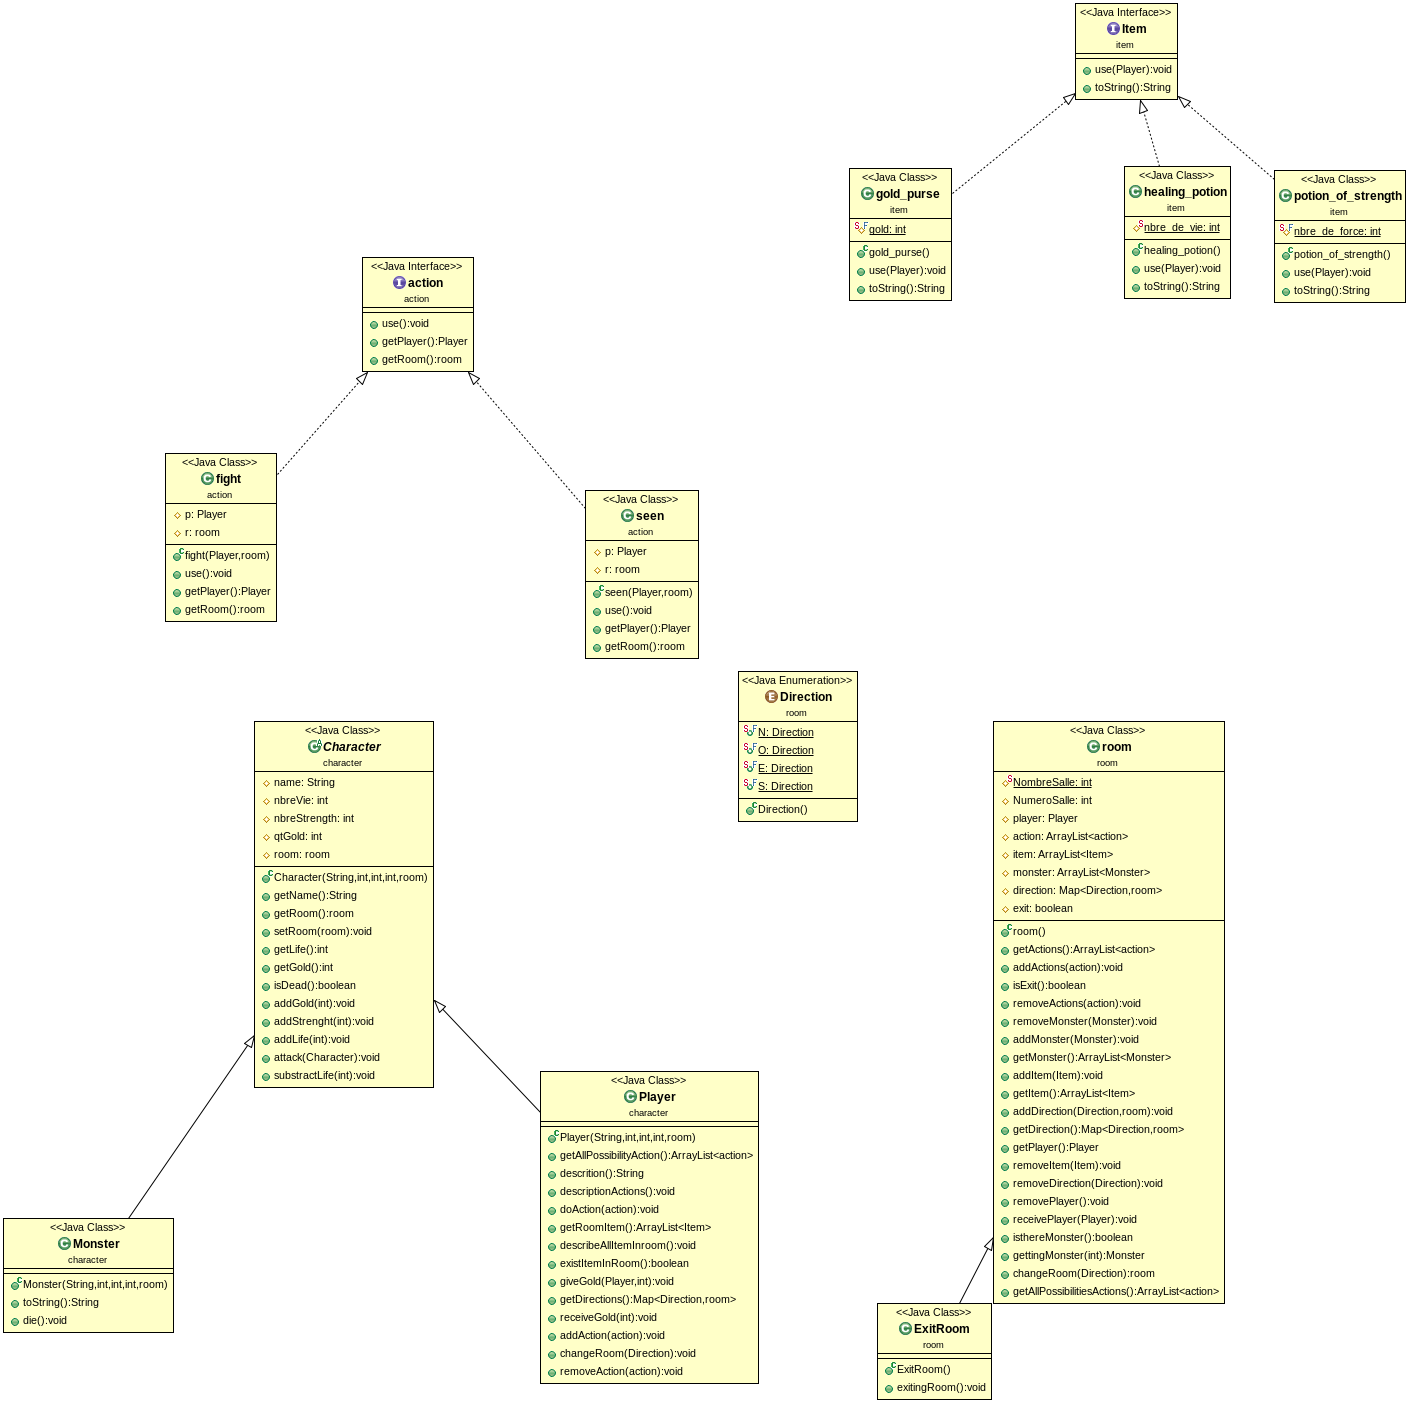
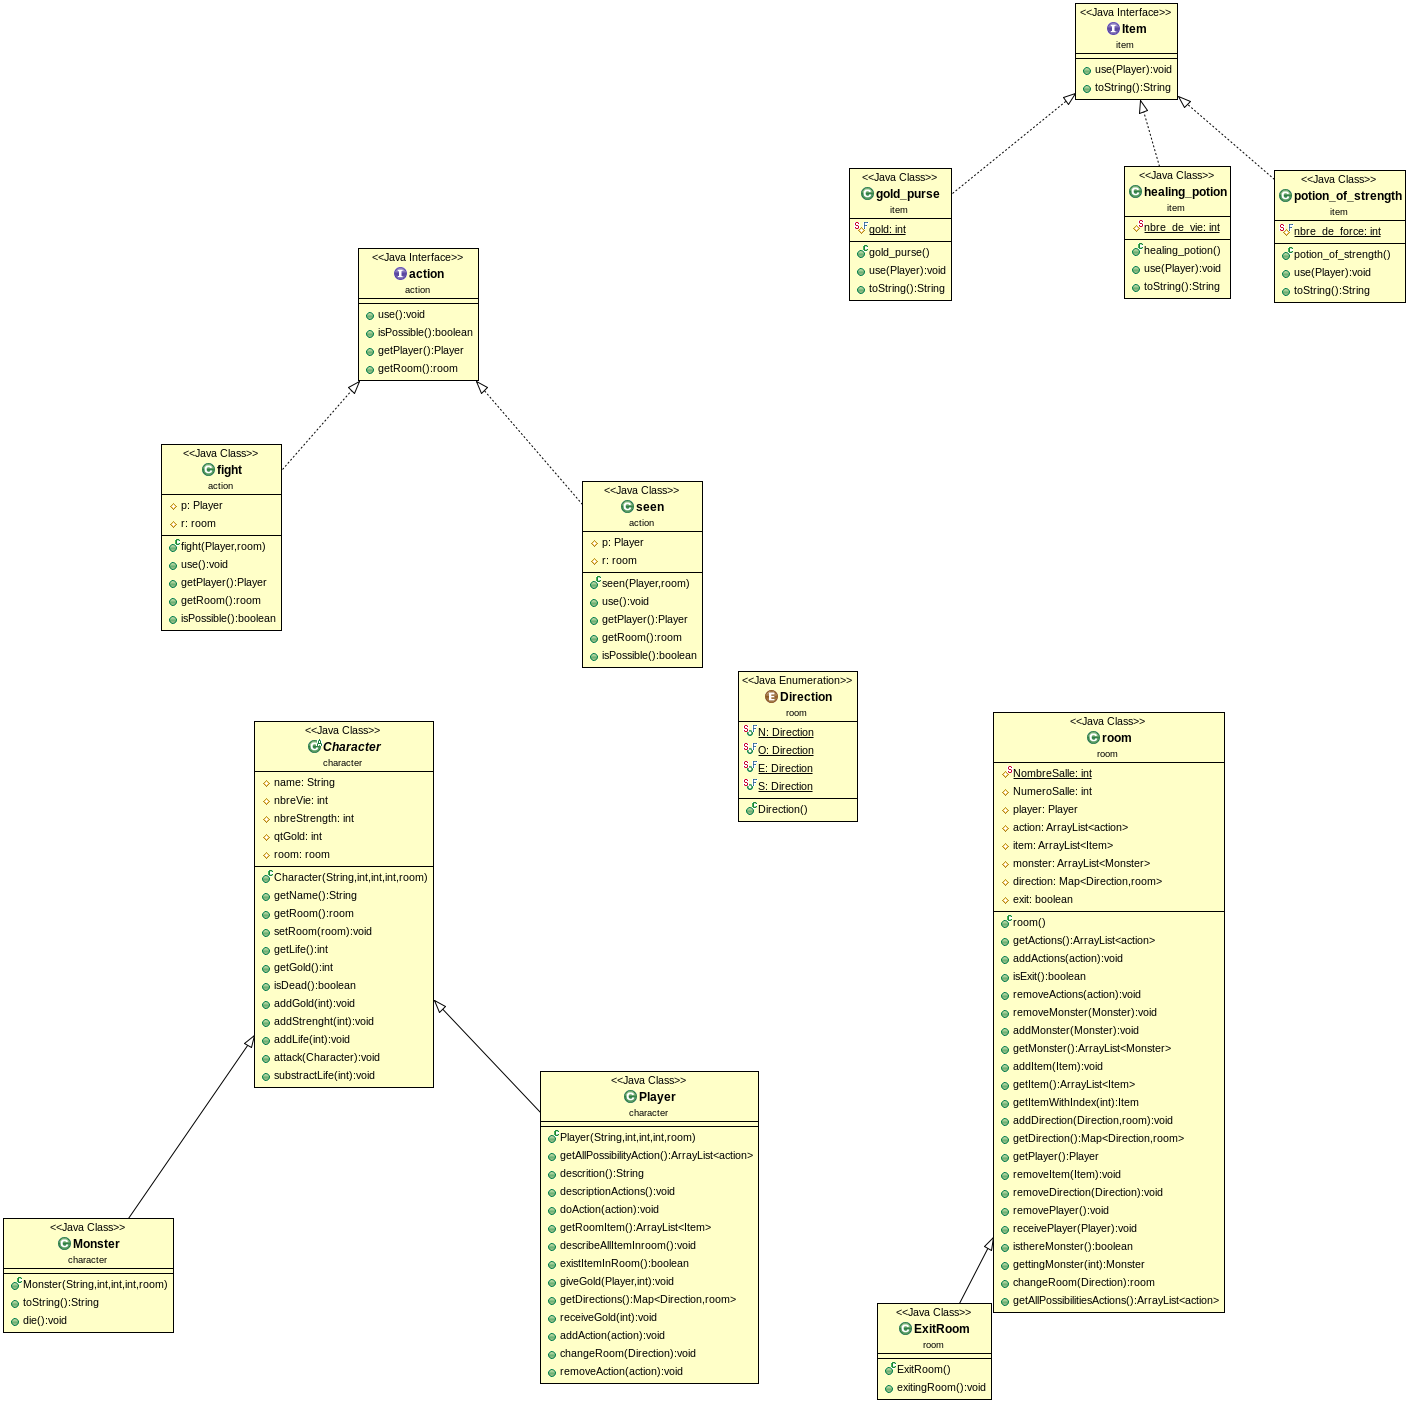
mise à jour

diff --git a/src/action/useItem.java b/src/action/useItem.java
@@ -4,6 +4,7 @@
 package action;
 
 import character.Player;
+import item.Item;
 import room.room;
 import util.Input;
 
@@ -26,17 +27,12 @@ public class useItem implements action {
 
 	public void use() {
 		// TODO Auto-generated method stub
-		System.out.println("Il y a plus de monstre dans la salle "
-				+ "Vous devez quitter la salle");
-		System.out.print("Choississez la direction");
+		System.out.println("***********Choisissez une action à effectuer selon le numéro de l'objet ******************");
+		
 		
 		String res = Input.readString();
-		room salle = this.r.getDirection().get(res);
-		if (!this.r.isthereMonster()) {
-			this.p.setRoom(salle);
-		}
-		
-		
+		Item i = this.r.getItemWithIndex(Integer.parseInt(res));
+		i.use(this.p);
 
 	}
 
@@ -48,6 +44,11 @@ public class useItem implements action {
 	public room getRoom() {
 		// TODO Auto-generated method stub
 		return this.r;
+	}
+
+	public boolean isPossible() {
+		// TODO Auto-generated method stub
+		return true;
 	}
 
 }

diff --git a/src/action/seen.java b/src/action/seen.java
@@ -29,7 +29,7 @@ public class seen implements action {
 
 	public void use() {
 		// TODO Auto-generated method stub
-		String res = "Cette salle contient ";
+		String res = " ============ Cette salle contient =========================";
 		for (Monster m: this.r.getMonster()) {
 			res+= "le monstre " + m.toString() + ":\n ";
 		}
@@ -57,6 +57,11 @@ public class seen implements action {
 	public room getRoom() {
 		// TODO Auto-generated method stub
 		return this.r;
+	}
+
+	public boolean isPossible() {
+		// TODO Auto-generated method stub
+		return true;
 	}
 
 }

diff --git a/src/room/room.java b/src/room/room.java
@@ -82,6 +82,10 @@ public class room {
 		return this.item;
 	}
 	
+	public Item getItemWithIndex(int i) {
+		return this.item.get(i);
+	}
+	
 	public void addDirection(Direction d, room r) {
 		this.direction.put(d, r);
 	}
@@ -129,7 +133,13 @@ public class room {
 	}
 	
 	public ArrayList<action> getAllPossibilitiesActions() {
-		return this.action;
+		ArrayList<action> res = new ArrayList<action>();
+		for (action a: this.action) {
+			if (a.isPossible()) {
+				res.add(a);
+			}
+		}
+		return res;
 		
 	}
 	

diff --git a/src/action/move.java b/src/action/move.java
@@ -39,4 +39,11 @@ public class move implements action {
 		return this.r;
 	}
 
+	public boolean isPossible() {
+		// TODO Auto-generated method stub
+		return true;
+	}
+	
+	
+
 }

diff --git a/src/action/action.java b/src/action/action.java
@@ -14,6 +14,8 @@ public interface action {
 	
 	public void use () throws Exception;
 	
+	public boolean isPossible();
+	
 	public Player getPlayer();
 	
 	public room getRoom();

diff --git a/src/action/fight.java b/src/action/fight.java
@@ -59,4 +59,9 @@ public class fight implements action {
 		return this.r;
 	}
 
+	public boolean isPossible() {
+		// TODO Auto-generated method stub
+		return true;
+	}
+
 }
